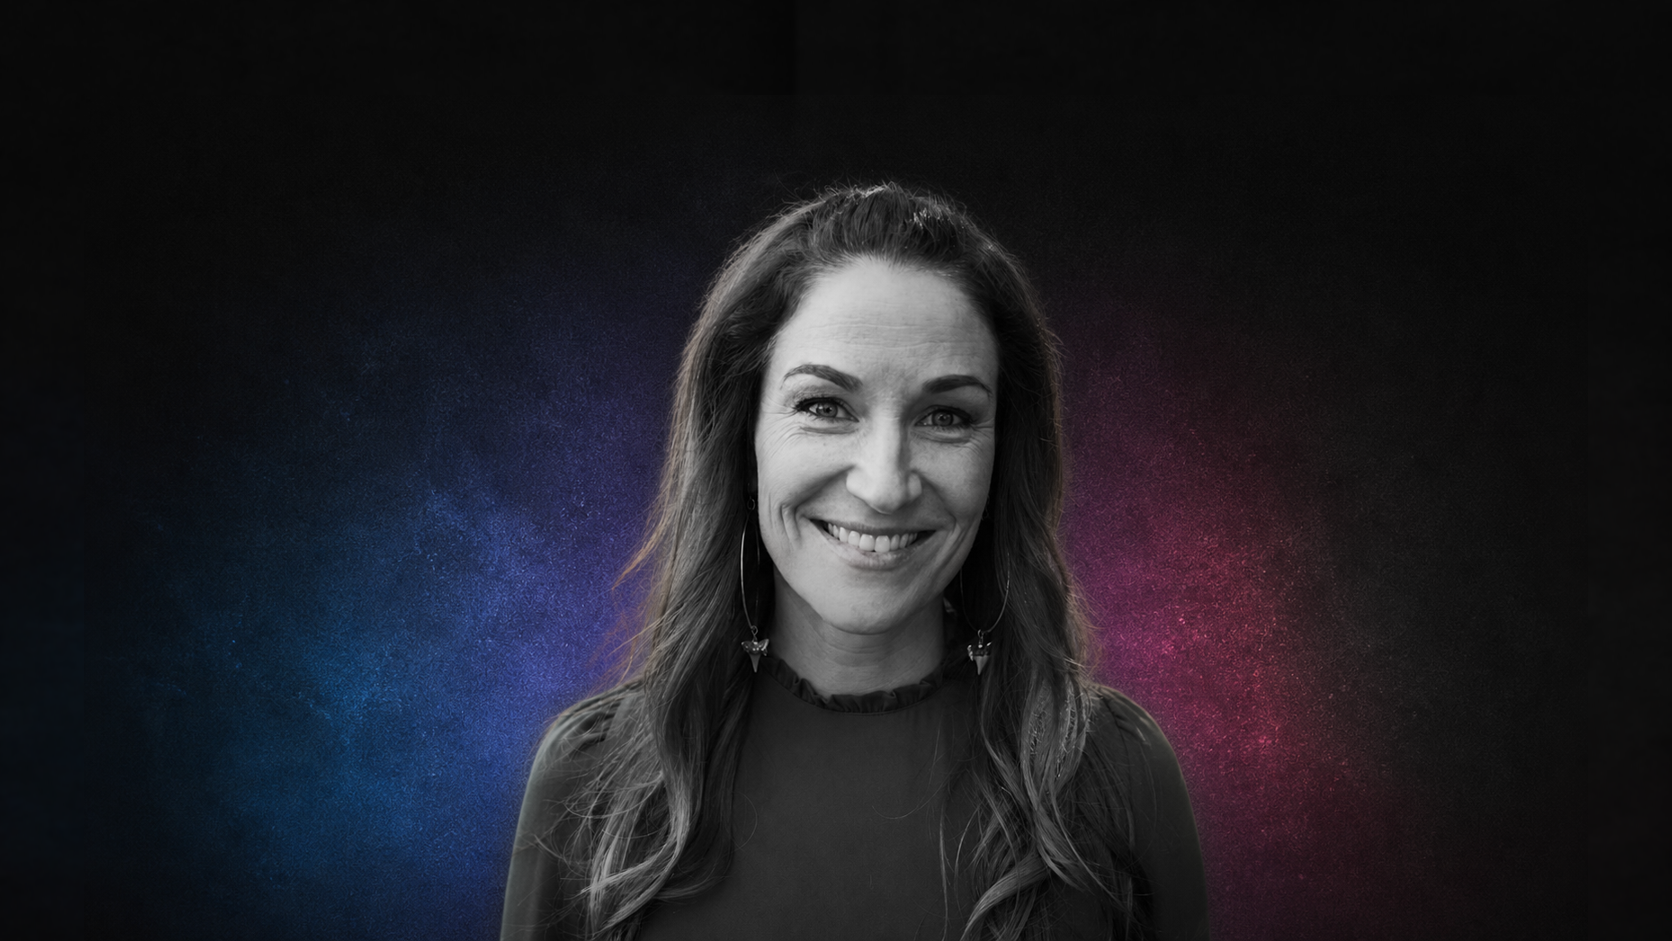
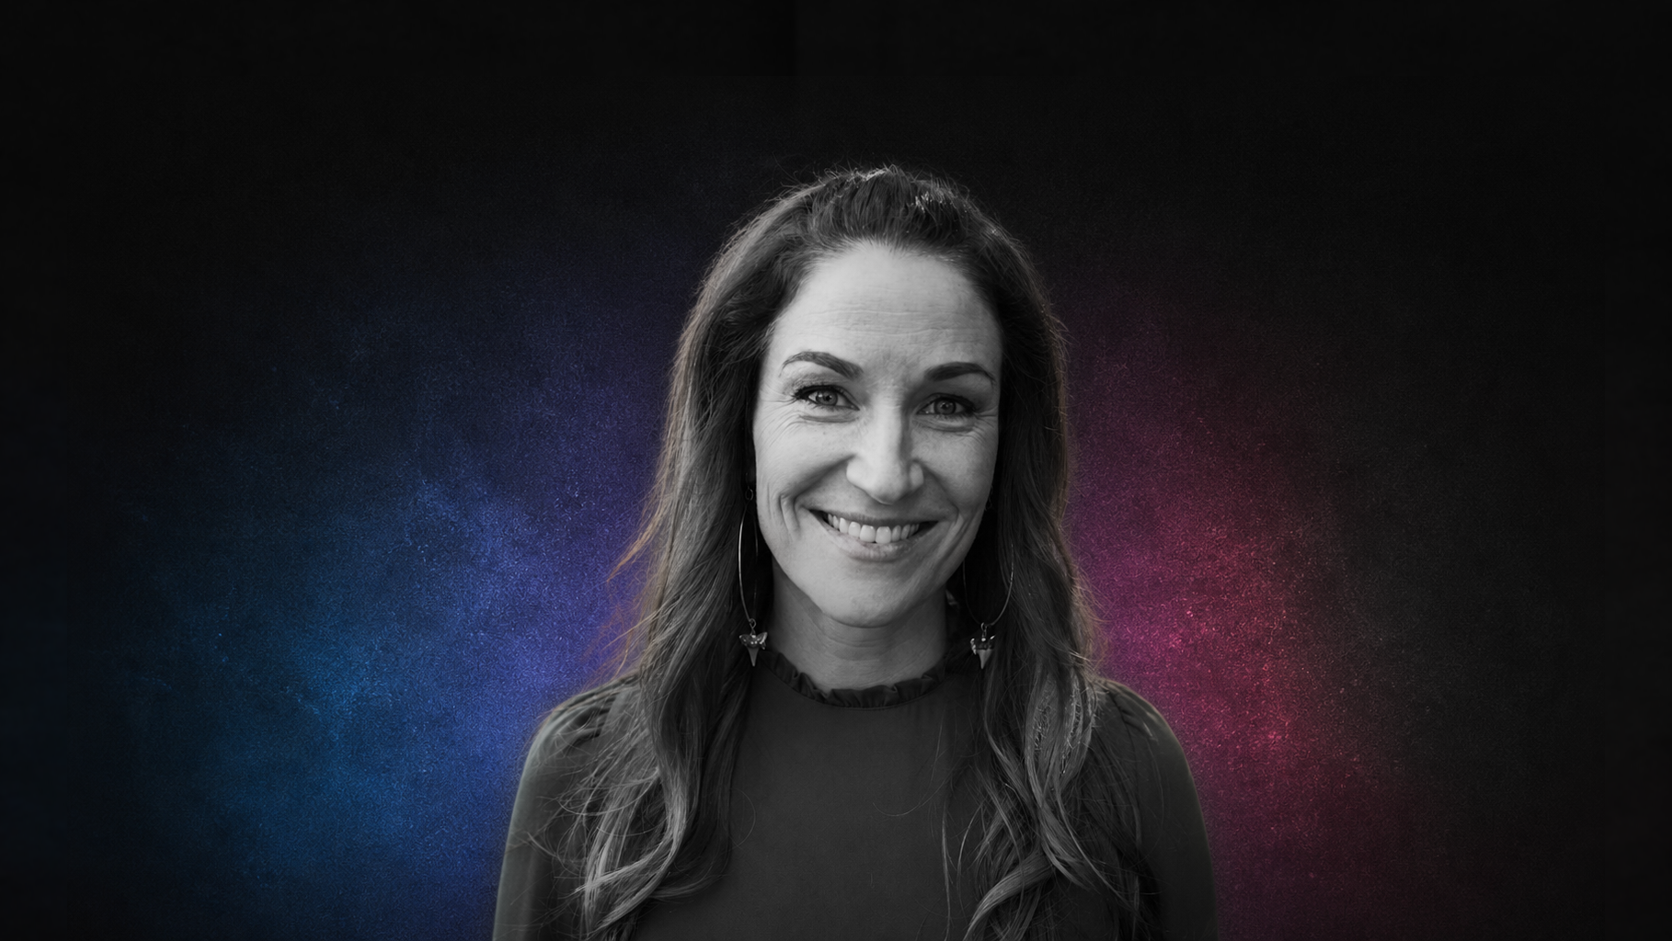
Fix mobile sticky register bar (stale .hero selector), hamburger menu (About + gradient Register CTA), international-band anchor landing, recording-languages centering, pricing-card badge clearance, em-dash spacing, Meagan takeaway line break; Meagan portrait 92%

diff --git a/hero-lab.html b/hero-lab.html
@@ -169,6 +169,12 @@ nav{position:sticky;top:0;z-index:20;background:var(--bg);border-bottom:1px soli
   border-bottom:1px solid var(--hair2);transition:color .18s,background .18s}
 .mnav-panel a:last-child{border-bottom:0}
 .mnav-panel a:hover,.mnav-panel a:active{color:var(--ink);background:rgba(255,255,255,.03)}
+.mnav-cta{display:flex!important;align-items:center;justify-content:center;gap:8px;
+  margin:14px 22px 18px!important;padding:15px 22px!important;border-radius:100px;
+  border-bottom:0!important;background:linear-gradient(92deg,#22D3EE,#8B5CF6);
+  color:#0A0E1A!important;font-weight:700!important;letter-spacing:-.005em}
+.mnav-cta svg{width:9px;height:10px;stroke:#0A0E1A;stroke-width:1.6;stroke-linecap:round;fill:none}
+.mnav-cta:hover,.mnav-cta:active{background:linear-gradient(92deg,#3EE0F5,#9D6EFF)!important;color:#0A0E1A!important}
 .navin{display:grid;grid-template-columns:1fr auto 1fr;align-items:center;height:72px;padding:0 var(--hero-x)}
 .navin .wordmark{justify-self:start}
 .navin .navlinks{justify-self:center}
@@ -780,7 +786,7 @@ a:has(>.numbers-logo){display:block;width:fit-content;margin:0 auto}
 /* below this, the 2-column price grid's columns (minmax 320-460px) get narrower than the
    nowrap text needs — wrap instead of overflowing the card before the 700px full stack kicks in */
 @media (max-width:1040px){.inc li{white-space:normal}}
-@media (max-width:700px){.price-tiers{grid-template-columns:1fr}.inc{max-width:320px}.inc li{white-space:normal;line-height:1.4;padding-right:8px}}
+@media (max-width:700px){.price-tiers{grid-template-columns:1fr;row-gap:52px}.inc{max-width:320px}.inc li{white-space:normal;line-height:1.4;padding-right:8px}}
 
 /* ---------- sticky mobile register bar ---------- */
 .mreg-bar{display:none}
@@ -1130,7 +1136,14 @@ footer::before{content:"";position:absolute;top:0;left:50%;transform:translateX(
   .glob,#global-band #global.glob{margin-top:44px;grid-template-columns:1fr;gap:40px}
   .gcell{padding:0}
   .arow{flex-wrap:wrap;justify-content:flex-start;row-gap:12px;padding:16px var(--hero-x) 16px calc(var(--hero-x) + 8px)}
-  .alist{padding-left:0;border-left:0;justify-content:flex-start;width:100%}
+  .access{margin-top:28px}
+  .arow{flex-direction:column;gap:14px;text-align:center;padding:16px var(--hero-x)}
+  .alist{padding-left:0;border-left:0;justify-content:center;width:100%;row-gap:8px}
+  .alist span:not(:last-child)::after{content:none}
+  .alist span{position:relative}
+  .alist span:not(:last-child){margin-right:12px}
+  .alist span:not(:last-child)::before{content:"\2022";position:absolute;right:-12px;top:50%;
+    transform:translateY(-50%);color:#5a6178;font-size:11px}
   .arow .albl{padding-right:0}
 
   /* why */
@@ -1607,7 +1620,7 @@ nav .navlinks{gap:32px;font-size:16.5px;font-weight:500}
 .wa-card h3{font-size:21px;font-weight:600;letter-spacing:-.015em;line-height:1.25}
 .wa-card p{font-size:15px;line-height:1.5;color:#b8bdcb}
 @media(max-width:1100px){.wa-h{font-size:40px}}
-@media(max-width:900px){.wa-h{font-size:38px}.wa-copy p{font-size:17.5px}}
+@media(max-width:900px){.wa-h{font-size:38px}.wa-copy p{font-size:17.5px}#speakers .sec-sub{line-height:1.32}}
 @media(max-width:560px){.wa-h{font-size:31px}}
 </style>
 <style>/* ===== layout-round shared ===== */
@@ -2639,12 +2652,12 @@ a.wa-card:focus-visible{outline:2px solid #3ED8F0;outline-offset:3px}
   font-size:14px;font-weight:700;letter-spacing:.01em;color:#3ED8F0;opacity:.9}
 .wa-go b{font-weight:700;transition:transform .22s ease;display:inline-block}
 a.wa-card:hover .wa-go b{transform:translateX(3px)}
-#day1,#day2{scroll-margin-top:76px}
+#day1,#day2,#global-band{scroll-margin-top:76px}
 html{scroll-behavior:smooth}
 @media(prefers-reduced-motion:reduce){html{scroll-behavior:auto}}
 @media(max-width:900px){
   .wa-go{margin-top:14px;font-size:15px;opacity:1}
-  #day1,#day2{scroll-margin-top:16px}
+  #day1,#day2,#global-band{scroll-margin-top:16px}
 }
 
 /* ===== tablet hero: desktop-scale type (601-900) ===== */
@@ -2925,7 +2938,7 @@ html{scroll-behavior:smooth}
     </div>
   </div>
   <div class="mnav-panel" id="mnavPanel" hidden>
-    <a href="#agenda">Program</a><a href="#speakers">Speakers</a><a href="#pricing">Pricing</a>
+    <a href="#about">About</a><a href="#agenda">Program</a><a href="#speakers">Speakers</a><a href="#pricing">Pricing</a><a class="mnav-cta" href="https://events.zoom.us/ev/AnqUWF2mloHzYgsaptQx0wsb4wWZ83seXLO9Zsdmx0UuPdyxNy3i~AjXUpViZrU7gePZJuMcrI7aF8idMW1htM7Rnn6eJ-UMfTNFM9zMaFJPKWA" target="_blank" rel="noopener noreferrer">Register Now <svg viewBox="0 0 9 10" aria-hidden="true"><path d="M.3 5h7.5M5.2 2.6 7.8 5 5.2 7.4"/></svg></a>
   </div>
 </nav>
 
@@ -3607,14 +3620,23 @@ document.querySelectorAll('[data-count]').forEach(function(el){cio.observe(el)})
     a.addEventListener('click',open);
   });
 
-  // ---- auto-open from email links: ?contact=elise or ?contact=megan (e.g. #contact for the no-JS fallback) ----
-  var autoParams=new URLSearchParams(location.search);
-  var autoWho=autoParams.get('contact');
+  // ---- auto-open from email links ----
+  // Hash-based routing is PRIMARY: #contact-elise / #contact-megan. A URL hash is
+  // never sent to the server, so no redirect can strip it — unlike ?contact=.
+  var autoWho=null;
+  var hashMatch=/^#?contact-(elise|megan)$/i.exec(location.hash);
+  if(hashMatch){
+    autoWho=hashMatch[1].toLowerCase();
+  } else {
+    var autoParams=new URLSearchParams(location.search);
+    autoWho=autoParams.get('contact');
+  }
   if(autoWho&&PEOPLE[autoWho]){
     open(null,autoWho);
-    autoParams.delete('contact');
-    var autoQs=autoParams.toString();
-    history.replaceState(null,'',location.pathname+(autoQs?'?'+autoQs:'')+location.hash);
+    var autoParams2=new URLSearchParams(location.search);
+    autoParams2.delete('contact');
+    var autoQs=autoParams2.toString();
+    history.replaceState(null,'',location.pathname+(autoQs?'?'+autoQs:''));
   }
 
   closeBtn.addEventListener('click',close);
@@ -3722,8 +3744,8 @@ document.querySelectorAll('[data-count]').forEach(function(el){cio.observe(el)})
       seen:["Firefly Boards","Moodboards","Visual references","Script visualization","Creative briefs","Treatments","Storyboard-style frames","Shot concepts","Composition exploration","Lighting direction","Location ideas","Wardrobe direction","Visual tone","Style exploration","Creative variations","Comparing visual directions","Collaborative visual planning","Moving from concept to production","Bringing visual references into the editorial process"]},
     {tk:'r',tag:'Live Q&amp;A',title:'Q&amp;A with Meagan Keane: Adobe&rsquo;s Approach to AI in Premiere',spk:'Speaker: Meagan Keane, Director of Product Marketing, Adobe Professional Film &amp; Video',
       img:'assets/meagan-keane-portrait.webp',
-      desc:"Join Meagan Keane, Director of Product Marketing, Adobe Professional Film &amp; Video, for a behind-the-scenes look at how Adobe thinks about AI in Premiere&mdash;not as a replacement for editorial judgment, but as a way to remove the repetitive work that stands between the editor and the story they&rsquo;re trying to tell. This Q&amp;A discussion will break down the philosophy behind Adobe&rsquo;s AI investments in Premiere and how they&rsquo;re built to keep editors, not algorithms, in creative control.",
-      objectives:[],seen:[],takeaway:"AI removes the busywork. Editors keep creative control."}
+      desc:"Join Meagan Keane, Director of Product Marketing, Adobe Professional Film &amp; Video, for a behind-the-scenes look at how Adobe thinks about AI in Premiere &mdash; not as a replacement for editorial judgment, but as a way to remove the repetitive work that stands between the editor and the story they&rsquo;re trying to tell. This Q&amp;A discussion will break down the philosophy behind Adobe&rsquo;s AI investments in Premiere and how they&rsquo;re built to keep editors, not algorithms, in creative control.",
+      objectives:[],seen:[],takeaway:"AI removes the busywork.<br>Editors keep creative control."}
   ];
 
   var scrim=document.getElementById('sdScrim');
@@ -3807,7 +3829,7 @@ document.querySelectorAll('[data-count]').forEach(function(el){cio.observe(el)})
 <script>
 (function(){
   var bar = document.getElementById('mregBar');
-  var hero = document.querySelector('.hero');
+  var hero = document.querySelector('.nh');
   if(!bar||!hero) return;
   var onScroll = function(){
     var heroBottom = hero.getBoundingClientRect().bottom;
